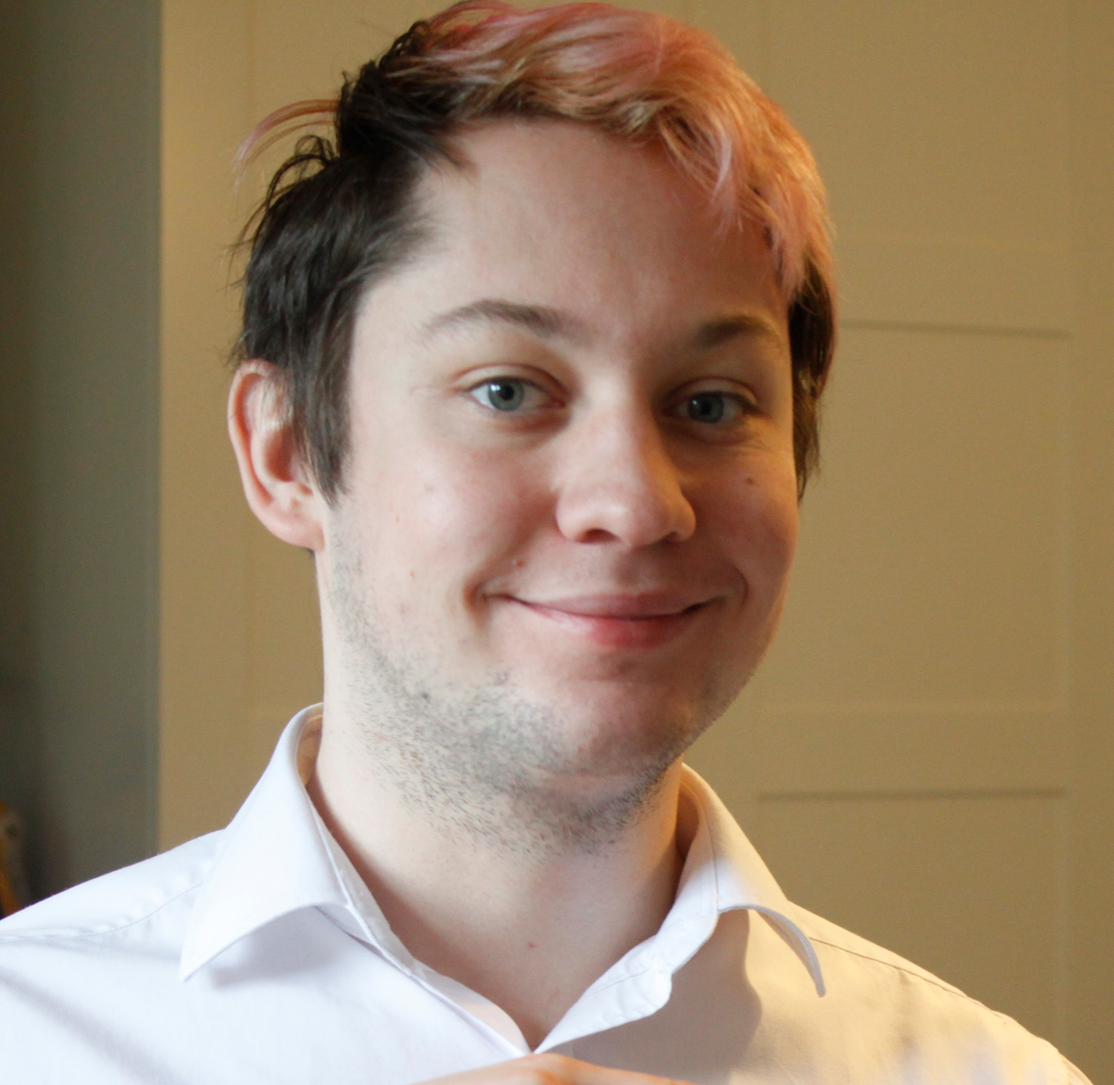
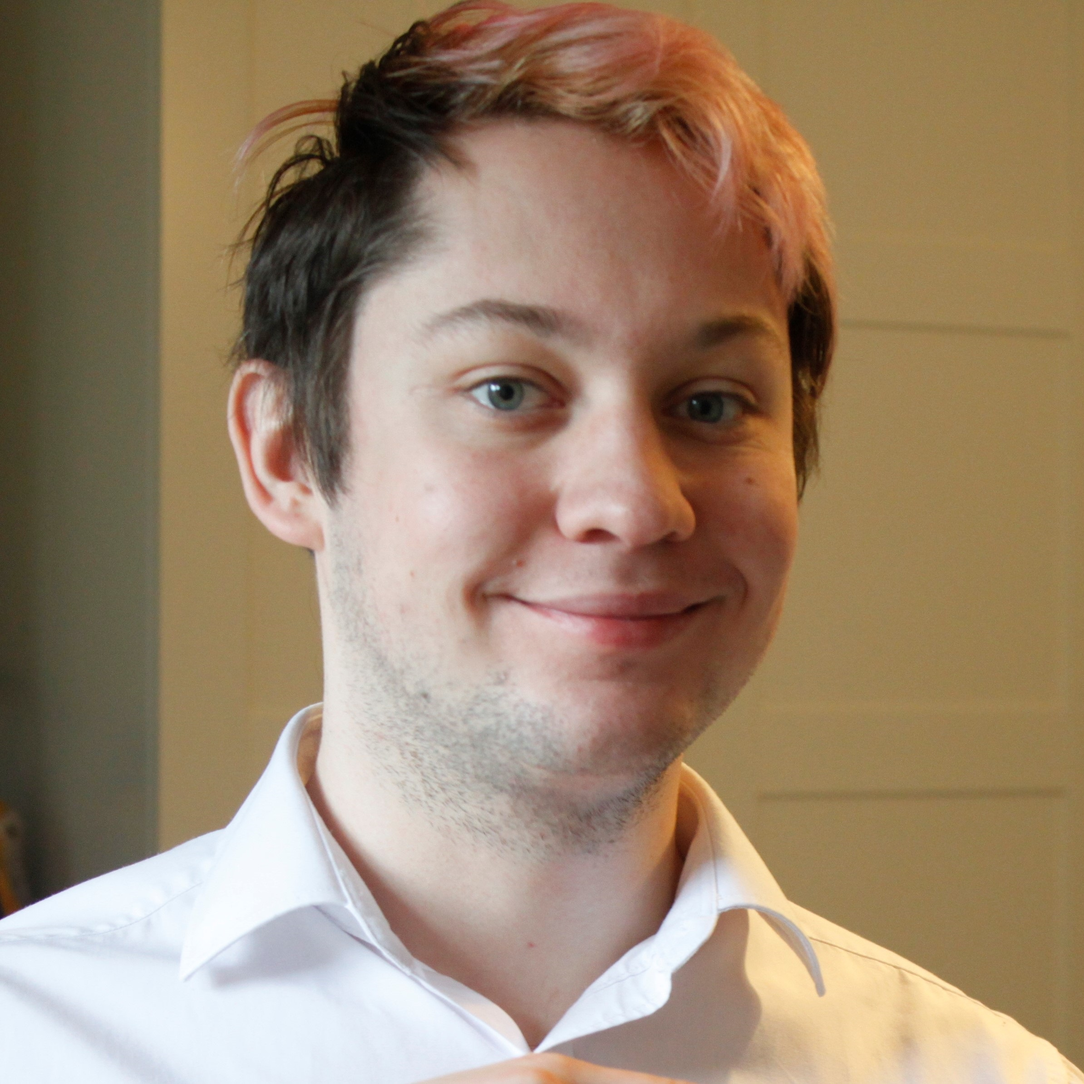
changed some styling, working on links etc atm

diff --git a/index.html b/index.html
@@ -24,41 +24,48 @@
             <a class="topbar-item" href="#about-me">About</a>
             <a class="topbar-item" href="#tech-stack">Technology</a>
             <a class="topbar-item" href="#projects">Projects</a>
-            <a class="topbar-item" href="#blogs">Blogs</a>
+            <!-- <a class="topbar-item" href="#blogs">Blogs</a> -->
             <a class="topbar-item" href="#contacts">Contact</a>
         </div>
         <div class="main">
 
             <div class="banner">
-                <h3>UNDER CONSTRUCTION</h3>
+                <h2>UNDER CONSTRUCTION</h2>
                 <div class="banner-photo">
                     <img src="./src/ed.jpg">
                 </div>
-                <p>Let's build something cool</p>
-                <div class="content">
+                <h3>Let's build something cool</h3>
+                
                     <div class="contact">
                         <a name="contacts"></a>
                         <a 
                             href="http://www.linkedin.com/in/EdPutans"
                             target="_blank"
-                            ><img class="contact" src="./src/linkedin.svg"></a>
+                            ><img  src="./src/linkedin.svg"></a>
                         <a 
                             href="http://www.github.com/EdPutans"
                             target="_blank"
-                            ><img class="contact" src="./src/github.svg"></a>
+                            ><img  src="./src/github.svg"></a>
                         <a 
                             href="https://mail.google.com/mail/?view=cm&fs=1&to=edputans@gmail.com&su=Let's%20work%20together&body=Hi%20Ed,"
                             target="_blank" 
                             alt="edputans@gmail.com"
                         >
-                        <img class="contact" src="./src/gmail.svg"></a> 
+                        <img  src="./src/gmail.svg"></a> 
+                        <a 
+                        href="tel:+447384084147"
+                        target="_blank" 
+                       
+                    >
+                    <img  src="./src/gmail.svg"></a> 
                     </div>
-                </div>
+                
             </div>
 
            
             <div class="content">
                 <div class="about">
+                    <h2>About me</h2>
                     <p>Hi, I'm Ed Putans - a full stack software developer from London, UK.</p>
                     <p>After graduating biomedical engineering in my home country of Lithuania, I became an engineer. I discovered my love for code later - and became a different kind of
                     engineer. I've completed the Flatiron School coding bootcamp and have been trying out different tech
@@ -86,6 +93,8 @@
 
             <div class="content">
                 <div class="technology">
+                    <a name="tech-stack"></a>
+                    <h3>My tech stack</h3>
                     <img src="./src/react.png" alt="React">
                     <img src="./src/js.png" alt="Javascript">
                     <img src="./src/ruby.png" alt="Ruby">
@@ -100,28 +109,32 @@
                 </div>
             </div>
             <div class="content projects">
+                <a name="projects"></a>
                 <div class="project">
-                    <div class="project-frame">
-                        <div class="project-text">
-                            <h4>GiftR</h4>
-                            <p>Social media application that addresses the burning issue of what do I get my friend for his bday?</p>
+                    <a href="http://giftr-frontend.herokuapp.com" target="_blank">
+                        <div class="project-frame">
+                            <div class="project-text">
+                                <h4>GiftR</h4>
+                                <p>Social media application that addresses the burning issue of what do I get my friend for his bday?</p>
+                            </div>
+                            <img src="./src/giftr.png">
                         </div>
-                        <img src="./src/giftr.png">
-                    </div>
+                    </a>
+                </div>
+                <div class="project">
+                    <a href="" target="_blank">
+                        <div class="project-frame">
+                            <div class="project-text">
+                                <h4>Chillax</h4>
+                                <p>NOT HOSTED YET  <br /><br />Travel app that shows recommended destinations during a certain time of the year, along with price estimates for a couple.</p>
+                            </div>
+                            <img src="./src/chillax.jpeg">
+                        </div>
+                    </a>
                 </div>
                 <div class="project">
                     <div class="project-frame">
                         <div class="project-text">
-                            <h4>Chillax</h4>
-                            
-                            <p>NOT HOSTED YET  <br /><br />Travel app that shows recommended destinations during a certain time of the year, along with price estimates for a couple.</p>
-                        </div>
-                        <img src="./src/chillax.jpeg">
-                    </div>
-                </div>
-                <div class="project">
-                    <div class="project-frame">
-                        <div ">
                             <h4>Rent Trader</h4>
                             <p>A house swapping app, where the user receives recommendations based on their location preferences</p>
                         </div>
@@ -141,4 +154,5 @@
 
         </div><!-- MAIN-->
     </body>
+    <script src="index.js"></script>
 </html>

diff --git a/index.css b/index.css
@@ -21,15 +21,22 @@ body{
   
 }
 
-h2,h3 {
+h3, h2 {
     display: block;
-    padding-top: 100px;
-    /* color:  #A6E22E; */
-    /* color:white; */
+    color:  #505050;
     font-family: Ubuntu, 'Segoe UI', Roboto, Cantarell, 'Open Sans', 'Helvetica Neue', sans-serif;
     font-style: normal;
+}
+
+h3{
+    font-size: 2em;
+}
+
+h2{
     font-size: 3em;
 }
+
+
 
 p, a{
     text-decoration: none;
@@ -39,7 +46,12 @@ p, a{
     font-family: graphik;
 }
 
-
+a.anchor {
+    display: block;
+    position: relative;
+    top: -250px;
+    visibility: hidden;
+}
 
 /* TOPBAR */
 
@@ -57,9 +69,10 @@ p, a{
 }
 
 .topbar-container a {
+    display: flex;
+    flex: 1;
     font-size: 1.4em;
     display: inline-block;
-    padding: 10px 5% 15px 5%;
     transition: 0.3s all;
     border: 2px solid transparent;
 }
@@ -73,7 +86,7 @@ p, a{
     margin: 0 auto;
     color: #F92672;
     text-align: center;
-    padding: 14px 16px 10px 16px;
+    padding: 14px 8px 10px 8px;
     text-decoration: none;
 }
 
@@ -81,69 +94,94 @@ p, a{
 
 .main{
     margin: 0 auto;
-    padding: 75px ;
+    padding: 1px 0 0 0;
     display:block;
-    /* width: 90%; */
     min-width: 375px;
-    max-width: 1000px;
-    background-color: yellow;
+    max-width: 900px;
     min-height: 400px;
+}
+
+@media(max-width:768px){
+    .main{
+        padding: 5px 0 0 0;
+    }
+    .banner{
+        /* border: 1px solid transparent; */
+        margin-bottom: 100px auto 20px;
+    }
+
 }
 
 /* BANNER */
 
 .banner {
+    min-width:375px;
+    box-shadow: 8px 8px 8px #30303044;
     margin: 100px auto;
     padding-top: 20px;
-    height: 500;
     background-color: lightgrey;
     text-align: center;
+    /* border: 2px solid white; */
 }
 
 .banner-photo{
-    margin-top: 20px;
     overflow: hidden;
     margin-top: 100px;
-    border-radius: 50%;
+    border-radius: 100%;
     margin: 0 auto;
-    height: 300px;
-    width:300px;
-    background-color: blue;
+    height: 30%;
+    width:30%;
+    min-width: 250px;
+    /* background-color: blue; */
     border: 2px solid white;
 }
 .banner-photo img{
-    max-width: 105%;
+    max-width: 100%;
     
 }
 .banner p{
     font-size: 30px;
     margin: 50px;
-    color: green;
+    /* color: green; */
 }
+
+
+/* CONTACT */
+.contact{
+    background-color: #F92672;
+    margin: 40px auto;
+    box-shadow: 8px 8px 8px #30303044;
+}
+
+.contact img{
+    margin: 20px 20px 20px 20px;
+    width: 10%;
+    height: auto;
+    transition: 0.3s all;
+}
+.contact img:hover{
+    box-shadow: 0  0 6px 6px #30303044;
+    border-radius: 100%;
+}
+
 
 /* CONTENT */
 
 .content{
-    background-color:green;
-    border: 1px solid red;
+    background-color: #eeeeee;
+    box-shadow: 8px 8px 8px #30303044;
+    padding: 5% 0;
+    margin: 20px auto;
 }
 
 .content a{
     color: grey;
-   
-}
-
-/* CONTACT */
-
-.contact img{
-    margin: 0 20px 0 20px;
-    width: 10%;
-    height: auto;
 }
 
 /* ABOUT ME */
 
 .about p{   
+    color: #303030;
     max-width: 70%;
     margin: 20px auto;
     font-size: 1.4em;
@@ -187,12 +225,12 @@ p, a{
 }
 
 .project-frame{
-    border: 1px solid grey;
     max-height: 300px;
     height:25%;
     width: auto;
     width:100%;
 }
+
 
 .project h4{
     position: absolute;
@@ -214,4 +252,5 @@ p, a{
 }
 .project img:hover{
     opacity: 0.2;
+    /* box-shadow: 6px 6px #30303044; */
 }

diff --git a/index.js b/index.js
@@ -10,3 +10,28 @@
 //         p.forEach(p=>p.style.display = p.style.display !== ''? '' : 'block')
 //     })
 // })
+
+
+// let links = document.querySelectorAll(".topbar-item")
+
+// // const checkWindow = (event) =>{
+// // //    event.preventDefault()
+// //     console.log(window.innerWidth)
+// //     return window.innerWidth<=768 && links.forEach(i=>
+// //         i.innerText = i.innerText[0]    
+// //     )
+// // }
+
+// document.addEventListener('resize', checkWindow = (event) =>
+// {
+//     //    event.preventDefault()
+//         console.log(window.innerWidth)
+//         return window.innerWidth<=768 && links.forEach(i=>
+//             i.innerText = i.innerText[0]    
+//         )
+//     }
+    
+
+// ) 
+
+// checkWindow()
